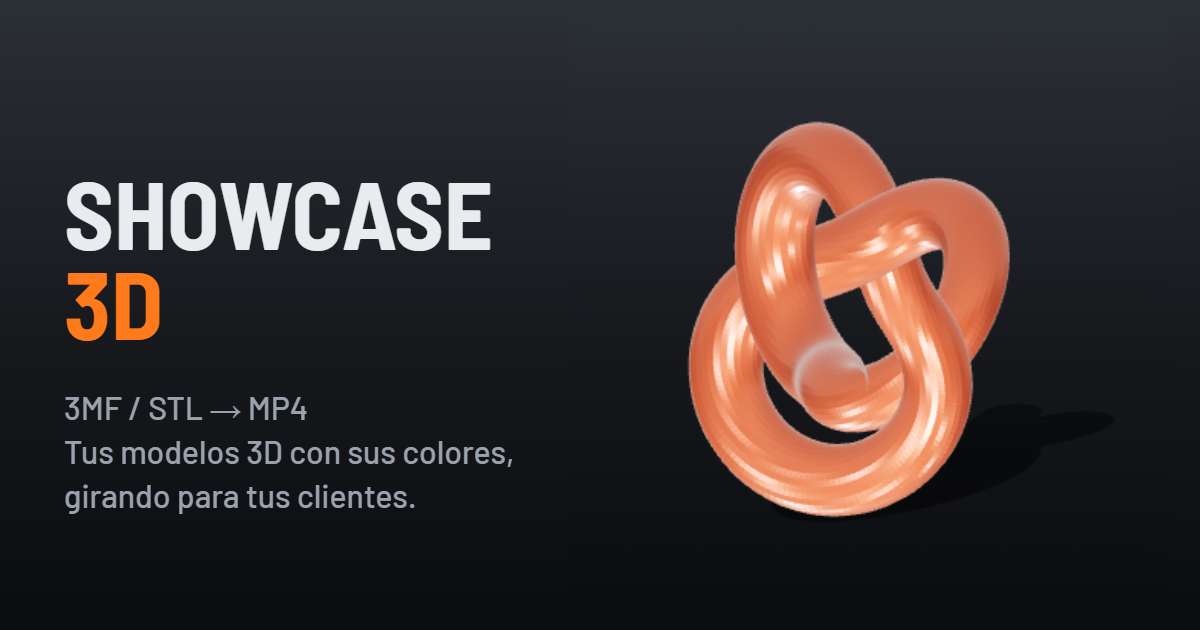
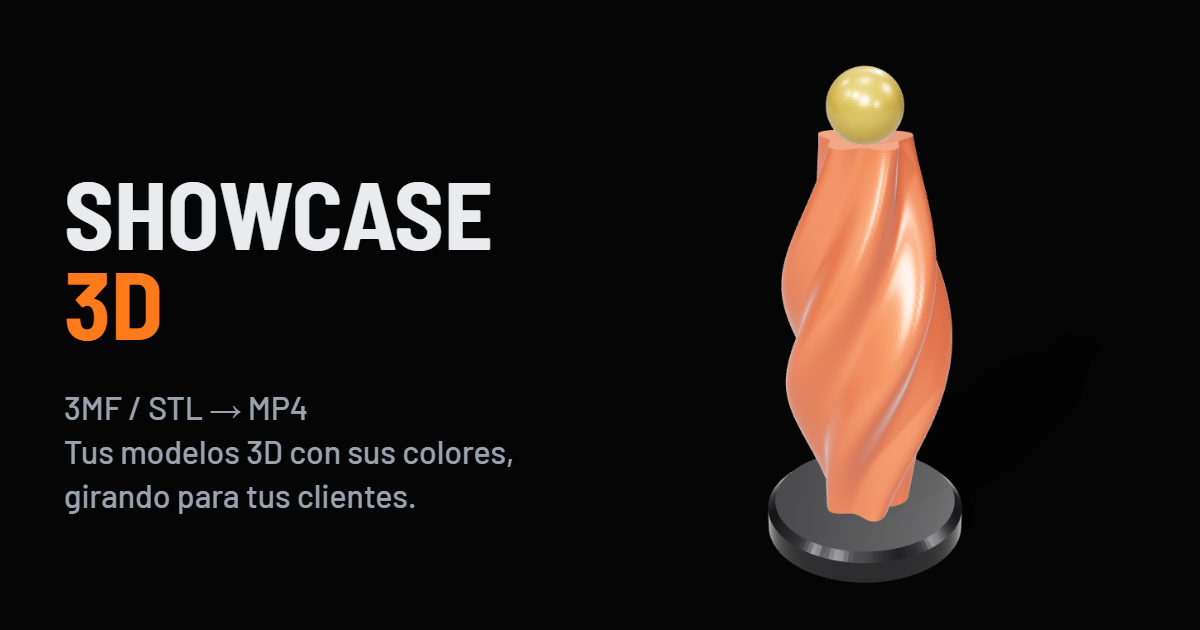
Replace client sample with a generated sculpture and refresh link preview

diff --git a/README.md b/README.md
@@ -26,7 +26,7 @@ La primera vez Windows puede mostrar "Windows protegió su PC" porque el ejecuta
 | `src/app.js` | Escena 3D (three.js), controles, simulación, grabación de video (WebCodecs + mp4-muxer) y guardado. |
 | `src/i18n.js` | Textos en inglés y cambio de idioma. |
 | `src/threemf.js` | Lector de 3MF: núcleo, extensión de producción de OrcaSlicer/Bambu, colores de filamento, pintura multicolor, placas y copias. |
-| `src/sample.json` | Modelo de ejemplo comprimido. |
+| `src/sample.json` | Escultura de ejemplo comprimida (la genera `scripts/make-sample.mjs`). |
 | `app/` | Proyecto de [Neutralinojs](https://neutralino.js.org): la ventana usa WebView2, que ya viene en Windows 10 y 11. |
 | `scripts/build-web.mjs` | Empaqueta todo en un solo HTML (librerías y fuentes embebidas). |
 | `scripts/build-exe.mjs` | Compila el `.exe` con la app embebida y el ícono. |
